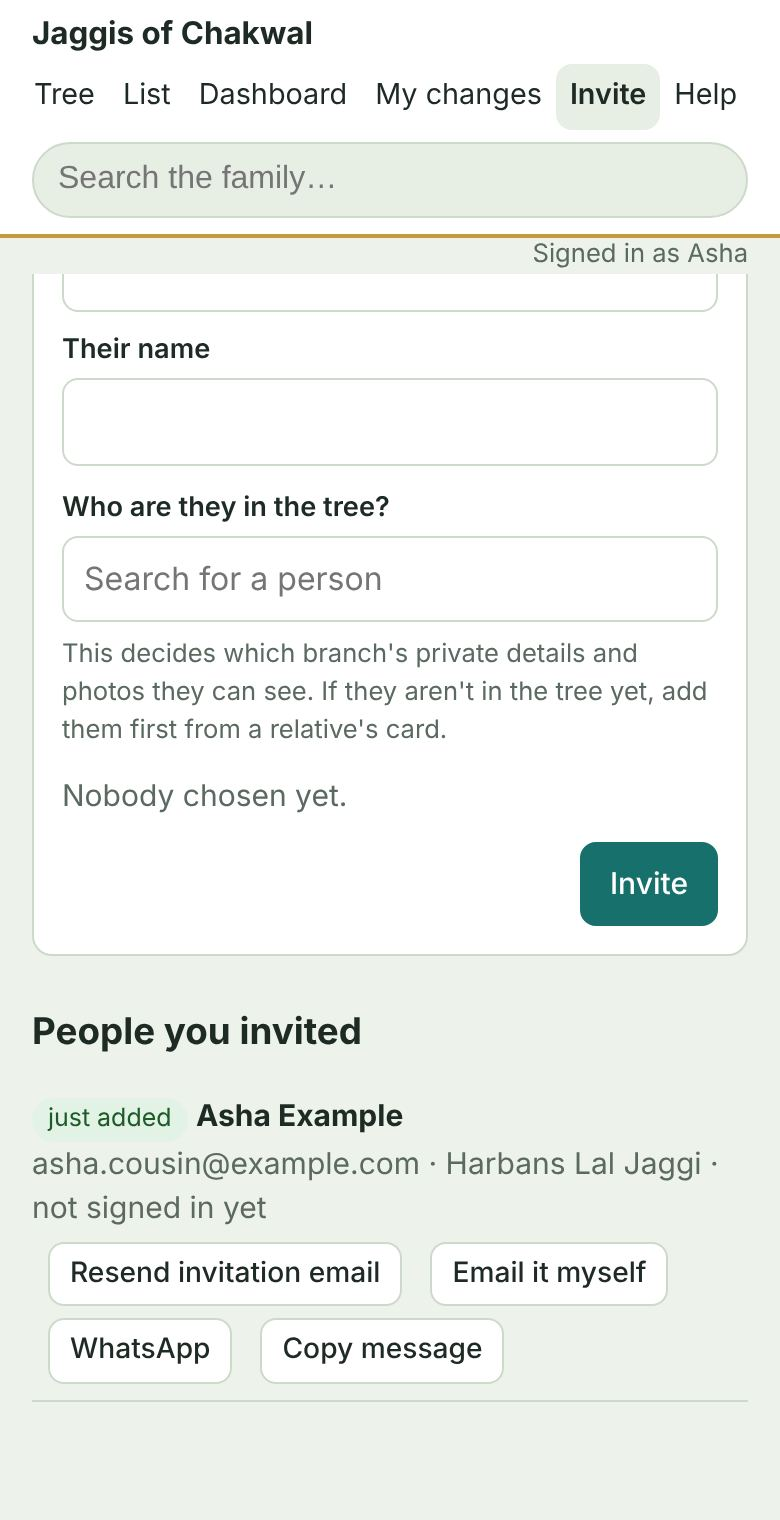
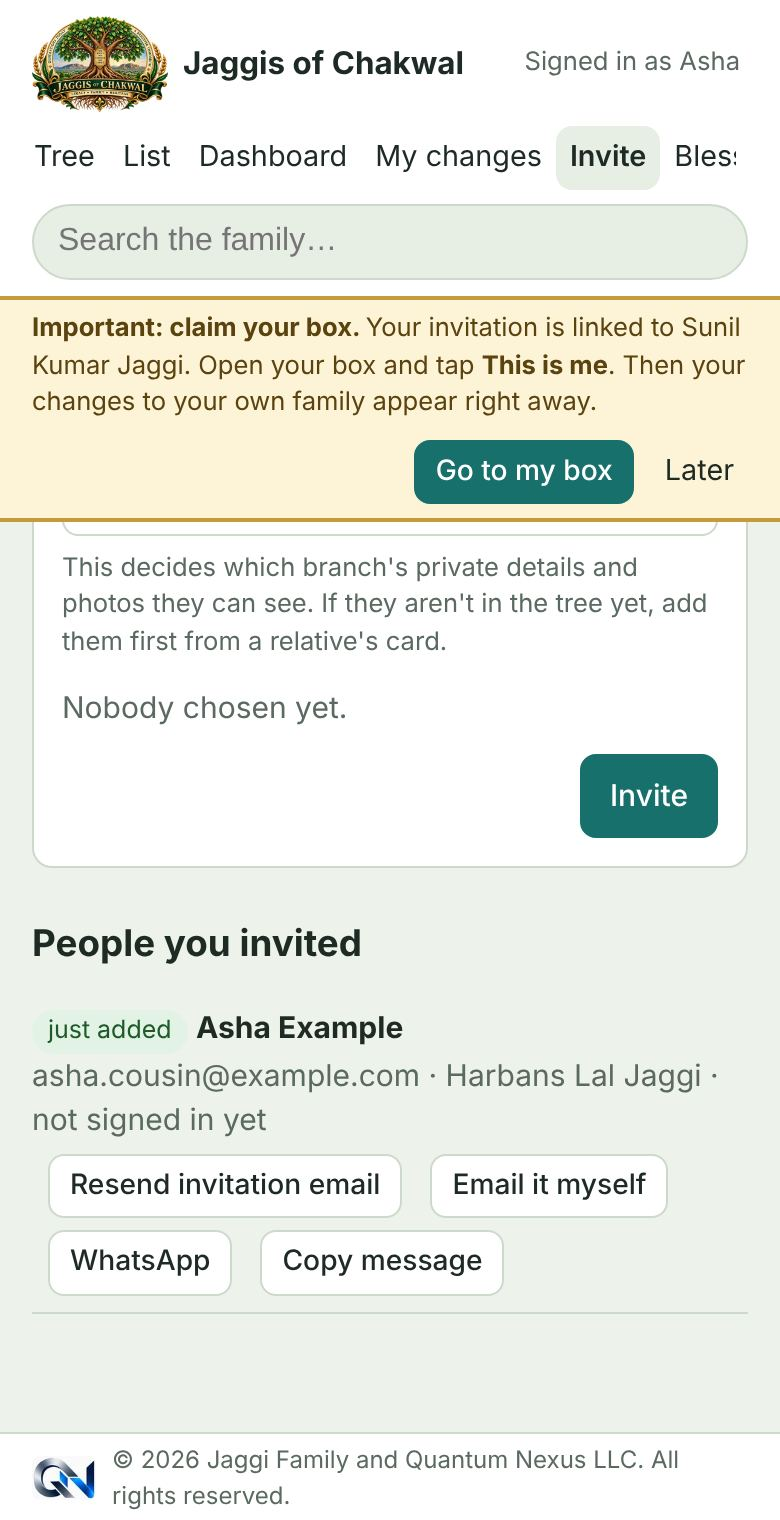
Help: bring the user manual up to date
Adds Blessings and badges and a For the admin section; covers the
Is this you? welcome and the claim-first prompt, live saves for your own
family, required Gender and Living?, the Save your changes? prompt,
light/dark switch, header chip, duplicates and Needs attention links,
and the branded PDF. Retakes the help pictures and adds two new ones.

Claude-Session: https://claude.ai/code/session_01JLtp1YijncZLtdt7iXJDNk

diff --git a/site/help.html b/site/help.html
@@ -30,6 +30,9 @@
     .help .shot figcaption { font-size: 0.88rem; color: var(--muted); margin-top: 6px; line-height: 1.4; }
     .help .shots { display: grid; grid-template-columns: repeat(auto-fit, minmax(220px, 1fr)); gap: 0 16px; }
     .help .shots .shot { margin: 16px auto; }
+    .help-table { width: 100%; border-collapse: collapse; margin: 12px 0; font-size: 0.97rem; }
+    .help-table th, .help-table td { text-align: left; padding: 6px 8px; border-bottom: 1px solid var(--line); vertical-align: top; }
+    .help-table td:last-child, .help-table th:last-child { text-align: right; white-space: nowrap; }
   </style>
 </head>
 <body>
@@ -55,7 +58,7 @@
 
   <main class="help">
     <h1>How to use the family tree</h1>
-    <p>This website is the family tree of the Jaggis of Chakwal, starting from Bakhshi Bhanna Mal Jaggi. Anyone with the link can look at it. Family members who were invited can also add and correct information. <strong>Changes are not visible right away:</strong> the admin checks each one first, and it appears once approved.</p>
+    <p>This website is the family tree of the Jaggis of Chakwal, starting from Bakhshi Bhanna Mal Jaggi. Anyone with the link can look at it. Family members who were invited can also add and correct information, and earn <a href="#blessings">blessings</a> for it. Once you have claimed your own box, changes to your own family appear straight away. Other changes are checked first, by the admin or by the branch admin for that part of the tree, and appear once approved.</p>
     <div class="tip important"><strong>Most important step after you sign in: claim your own box.</strong> Find yourself in the tree and tap <span class="ui">This is me</span>. <a href="#this-is-me">See how</a>.</div>
 
     <div class="toc">
@@ -66,10 +69,12 @@
       <a href="#edit">5. Adding or correcting information</a>
       <a href="#photo">6. Adding a photo</a>
       <a href="#invite">7. Inviting a relative</a>
-      <a href="#dashboard">8. The family dashboard</a>
-      <a href="#library">9. The family Library: videos and articles</a>
-      <a href="#privacy">10. Who can see what</a>
-      <a href="#trouble">11. If something isn't working</a>
+      <a href="#blessings">8. Blessings and badges</a>
+      <a href="#dashboard">9. The family dashboard, PDF and GEDCOM</a>
+      <a href="#library">10. The family Library: videos and articles</a>
+      <a href="#admin">11. For the admin</a>
+      <a href="#privacy">12. Who can see what</a>
+      <a href="#trouble">13. If something isn't working</a>
     </div>
 
     <h2 id="sign-in">1. Signing in</h2>
@@ -85,11 +90,15 @@
 
     <h2 id="this-is-me">2. Claim your box: "This is me" (important)</h2>
     <div class="tip important"><strong>Please do this first, right after you sign in.</strong> Claiming your own box tells the site who you are. It lets your changes to your own family appear straight away, shows how each person is related to you, and makes you the branch admin for your family. Until you do, a yellow reminder stays at the top of the page.</div>
+    <p><strong>Right after you first sign in,</strong> the site usually does this for you. If your invitation names your box, the tree moves to it and a box opens saying <em>Welcome dear member of Jaggi Family!</em> and asking <span class="ui">Is this you?</span>. Tap <span class="ui">Yes, I am …</span> and you are done. If it isn't you, type your name under <span class="ui">Not you? Search for your name</span>, pick yourself and tap <span class="ui">Yes, this is me</span>.</p>
+    <figure class="shot"><img src="img/help/claim-welcome.jpg" width="390" height="760" loading="lazy" alt="After signing in: the tree goes to your box and asks Is this you?"><figcaption>After signing in, the tree goes to your box and asks "Is this you?".</figcaption></figure>
+    <p>If you closed that box, you can claim later:</p>
     <ol>
       <li>Tap <span class="ui">Go to my box</span> on the yellow reminder, or type your name in <span class="ui">Search the family</span> and pick yourself.</li>
       <li>On your card, tap <span class="ui">This is me</span> and confirm.</li>
       <li><strong>Not in the tree yet?</strong> Open your father's or mother's card, tap <span class="ui">Add: Child</span>, add yourself, and once you appear, claim that box.</li>
     </ol>
+    <p><strong>Claim before you change anything.</strong> Until you have claimed a box, tapping any add, edit, photo or link button first opens <span class="ui">First, claim your own box</span>. Claim there and your change carries on. If you are not in the tree yet, tap <span class="ui">My box isn't in the tree yet</span>, then <span class="ui">Continue</span>: you can then add yourself under your father or mother, and you won't be asked again during that visit.</p>
     <p>Once you are signed in, open your own box in the tree and tap <span class="ui">This is me</span>. You become the <strong>branch admin</strong> for your own family below that box. If your invitation was linked to that box, this happens straight away. Otherwise the person who invited you, or the admin, confirms it first. Each account can claim only one box, and each box belongs to only one person.</p>
     <p>As a branch admin:</p>
     <ul>
@@ -130,6 +139,9 @@
       <li><strong>Find someone:</strong> type a name in <span class="ui">Search the family</span>. Different spellings, like Parkash and Prakash, still find them.</li>
       <li><strong>Start the tree from one person:</strong> open their details and tap <span class="ui">Show tree from here</span>. The line at the top shows their ancestors; tap any name there to go back up, or <span class="ui">Whole tree</span>.</li>
       <li><strong>List view:</strong> tap <span class="ui">List</span> at the top for a simple indented list, which is easier to read on a small phone.</li>
+      <li><strong>Light or dark:</strong> tap <span class="ui">☾ Dark</span> or <span class="ui">☀ Light</span> in the menu to switch colours. Your choice is remembered on that phone or computer; until you choose, the site follows your device's own setting.</li>
+      <li><strong>The family logo:</strong> rest the mouse on the logo at the top left, or tap it on a phone, to see it large.</li>
+      <li><strong>You, at the top:</strong> once you are signed in and have claimed your box, your photo, name, <a href="#blessings">blessings</a> and badges sit in the header (on a phone, beside the logo). Tap them to open the Blessings page; tap <span class="ui">?</span> for how blessings work.</li>
     </ul>
     <div class="shots">
       <figure class="shot"><img src="img/help/tree.jpg" width="390" height="760" loading="lazy" alt="The tree. Drag to move around; tap the round button under a card to open a family."><figcaption>The tree. Drag to move around; tap the round button under a card to open a family.</figcaption></figure>
@@ -145,11 +157,14 @@
       <li><span class="ui">Add: Child / Spouse / Parent</span>: add someone who is missing.</li>
       <li><span class="ui">Link to someone already in the tree</span>: connect two people who are both already there.</li>
     </ul>
+    <p><strong>Gender</strong> and <strong>Living?</strong> must be filled in when you add or edit someone: they show <em>Choose...</em> until you pick one. If you really don't know whether someone is living, ask a relative or add an <a href="#dashboard">open question</a>.</p>
+    <p>The <span class="ui">Save</span> (or <span class="ui">Send for approval</span>) button stays at the bottom of the form while you scroll. If you close a form with ✕ after changing something, the site asks <span class="ui">Save your changes?</span> with <span class="ui">Keep editing</span>, <span class="ui">Discard changes</span> or <span class="ui">Save</span>, so nothing is lost by accident. If something can't be saved, the message appears inside the form, so you can fix it and try again.</p>
     <div class="shots">
       <figure class="shot"><img src="img/help/card-actions.jpg" width="390" height="760" loading="lazy" alt="The buttons near the top of a person's card."><figcaption>The buttons near the top of a person's card.</figcaption></figure>
       <figure class="shot"><img src="img/help/suggest-edit.jpg" width="390" height="760" loading="lazy" alt="Suggesting an edit. Nothing changes until the admin approves it."><figcaption>Suggesting an edit. Nothing changes until the admin approves it.</figcaption></figure>
     </div>
     <p>For births and deaths, only the <strong>year</strong> is recorded, never the full date. Years can be approximate, for example <em>c. 1925</em> or <em>1930s</em>. Use <strong>Sources</strong> to say where the information came from (for example "Dadi's memory" or "school records"), and <strong>What's uncertain</strong> for anything you're not sure about.</p>
+    <p><strong>Your own family:</strong> once you have claimed your box, changes to yourself, your husband or wife and your descendants are saved straight away (the button says <span class="ui">Save</span>). Everything else is a suggestion.</p>
     <p>After you tap <span class="ui">Send for approval</span>, your change waits for the admin. <strong>It won't show in the tree until it is approved.</strong> While it waits, you can see it on that person's card in a yellow <strong>Waiting for admin approval</strong> box (only you see this), and under <span class="ui">My changes</span>, where you can also withdraw it. Don't worry about making a mistake; nothing changes until it's approved.</p>
     <div class="shots">
       <figure class="shot"><img src="img/help/pending-card.jpg" width="390" height="760" loading="lazy" alt="Your change, waiting for approval, on the person's card. Only you see it."><figcaption>Your change, waiting for approval, on the person's card. Only you see it.</figcaption></figure>
@@ -181,7 +196,36 @@
     </div>
     <p>The people you invited are listed on the same page, with <span class="ui">Resend invitation email</span> in case it got lost.</p>
 
-    <h2 id="dashboard">8. The family dashboard</h2>
+    <h2 id="blessings">8. Blessings and badges</h2>
+    <p>Every time you add to the family tree, you earn <strong>blessings</strong> ✦. They show how much each of us has given to keeping our family story alive. Blessings count once a change is approved (changes to your own family count straight away). Tap <span class="ui">Blessings</span> in the menu, or your blessings at the top, to see the leaderboard.</p>
+    <table class="help-table">
+      <thead><tr><th>You earn</th><th>Blessings</th></tr></thead>
+      <tbody>
+        <tr><td>Claim your own box ("This is me")</td><td>5</td></tr>
+        <tr><td>Add a person</td><td>5</td></tr>
+        <tr><td>A story about someone (in <span class="ui">Notes / Story</span>)</td><td>5</td></tr>
+        <tr><td>Add a photo</td><td>5</td></tr>
+        <tr><td>Birth or death year, birth or death place, profession, source</td><td>2 each</td></tr>
+        <tr><td>Other details, like names or gender</td><td>1 each</td></tr>
+        <tr><td>Connect two people already in the tree</td><td>3</td></tr>
+        <tr><td>A link for the family Library (once approved)</td><td>3</td></tr>
+        <tr><td>Invite a relative who then signs in</td><td>10</td></tr>
+      </tbody>
+    </table>
+    <p><strong>Our elders count most.</strong> Details about the earliest generations are the rarest, so they are multiplied: <strong>5×</strong> for Generation 1 (Bakhshi Bhanna Mal Jaggi), <strong>4×</strong> for Generation 2, <strong>3×</strong> for Generation 3 and <strong>2×</strong> for Generation 4. After you save, a message tells you how many blessings you earned or will earn.</p>
+    <p><strong>Badges.</strong> Reach a goal and you keep the badge for good:</p>
+    <ul>
+      <li><strong>Root Keeper:</strong> add 10 people to the tree.</li>
+      <li><strong>Storyteller:</strong> add 5 stories.</li>
+      <li><strong>Photo Finder:</strong> add 10 photos.</li>
+      <li><strong>Connector:</strong> 3 relatives you invited sign in.</li>
+      <li><strong>Family Historian:</strong> the most blessings this month. This one moves to whoever leads each month, and the leader gets a short congratulations message.</li>
+    </ul>
+    <p>Two special badges are given by hand: <strong>Founder of the Jaggi Family Tree</strong> for Suraj Parkash Jaggi, who had the idea and made the first two family trees this one grew from, and <strong>Creator of the Jaggi Family Tree</strong> for Sunil Kumar Jaggi, who built the site. They show on their boxes in the tree too.</p>
+    <p>The Blessings page shows the leaderboard for this month or all time, your badges and how close you are to each, the totals for each branch of the family, and a list of your own blessings. The first time you sign in, a short <em>Welcome to Family Blessings</em> message explains all this; to see it again, tap <span class="ui">How it works</span> on the Blessings page, or the <span class="ui">?</span> next to your name at the top.</p>
+    <figure class="shot"><img src="img/help/blessings.jpg" width="390" height="760" loading="lazy" alt="The Blessings page: the leaderboard, your badges and branch totals."><figcaption>The Blessings page: the leaderboard, your badges and branch totals.</figcaption></figure>
+
+    <h2 id="dashboard">9. The family dashboard</h2>
     <p>Tap <span class="ui">Dashboard</span> at the top to see the whole tree at a glance:</p>
     <ul>
       <li><strong>Numbers:</strong> how many people, generations, marriages, branches, photos and sources.</li>
@@ -190,16 +234,21 @@
       <li><strong>Born by period, birthplaces, earliest ancestors and common first names.</strong></li>
       <li><strong>Open questions:</strong> things the family is still trying to find out. Anyone signed in can add one.</li>
     </ul>
+    <p>A few rows in <strong>Needs attention</strong> are worth knowing about:</p>
+    <ul>
+      <li><strong>Not known if living</strong> and <strong>Gender not recorded:</strong> tapping a name here opens that person's edit form straight away, so you can pick the answer and save.</li>
+      <li><strong>Possible duplicates (similar names):</strong> pairs of people whose names are spelled alike, with their parents, so you can tell whether they are really the same person. Only people of the same gender are paired, and placeholder names like <em>Unknown</em> are skipped. If two people really are different, an admin taps <span class="ui">Not a duplicate</span> and the pair is no longer listed. If they are the same person, tell the admin.</li>
+    </ul>
     <div class="shots">
       <figure class="shot"><img src="img/help/dashboard.jpg" width="390" height="760" loading="lazy" alt="The dashboard: the tree in numbers."><figcaption>The dashboard: the tree in numbers.</figcaption></figure>
       <figure class="shot"><img src="img/help/dashboard-attention.jpg" width="390" height="760" loading="lazy" alt="Needs attention: tap a row to see who is missing what."><figcaption>Needs attention: tap a row to see who is missing what.</figcaption></figure>
     </div>
 
     <h3>Printing the tree or saving it as a PDF</h3>
-    <p>Tap <span class="ui">Export</span> at the top, then <span class="ui">Make the PDF</span>. You get a family book: a cover page, the whole tree as an indented chart, and a page for everyone with their years, places and photo. When the print window opens, choose <span class="ui">Save as PDF</span> as the printer. On an iPhone, tap Share, then Print, pinch outwards on the preview, then Share and Save to Files.</p>
+    <p>Tap <span class="ui">Export</span> at the top, then <span class="ui">Make the PDF</span>. You get a family book: a cover page with the Jaggis of Chakwal logo, the whole tree as an indented chart, and a page for everyone with their years, places and photo. Every page has the small family logo at the top and the copyright line at the bottom. When the print window opens, choose <span class="ui">Save as PDF</span> as the printer. On an iPhone, tap Share, then Print, pinch outwards on the preview, then Share and Save to Files.</p>
     <p>The <span class="ui">.ged</span> file on the same page is for genealogy programs and sites such as Ancestry, FamilySearch or MyHeritage. It is not meant to be opened on its own. Both include only what you are allowed to see.</p>
 
-    <h2 id="library">9. The family Library: videos and articles</h2>
+    <h2 id="library">10. The family Library: videos and articles</h2>
     <p>Tap <span class="ui">Library</span> at the top. It keeps the videos, articles and other writing about the Jaggis of Chakwal in one place: Chakwal's history, Partition, Arya High School, family members and more. Anyone can look. YouTube videos play right on the page; tap <span class="ui">Open</span> on anything else to read it on its own site. Use the search box or the topic buttons to find something.</p>
     <h3>Adding a link (family members)</h3>
     <ol>
@@ -222,7 +271,29 @@
       <li><strong>Family only:</strong> under <span class="ui">More options</span>, a link can be made visible to signed-in family members only. Everything else in the Library is public.</li>
     </ul>
 
-    <h2 id="privacy">10. Who can see what</h2>
+    <h2 id="admin">11. For the admin</h2>
+    <p>The admin sees two more items in the menu, <span class="ui">Review</span> and <span class="ui">Members</span>. Branch admins (anyone who has claimed a box) also see <span class="ui">Review</span> for suggestions about their part of the tree.</p>
+    <h3>Review</h3>
+    <ul>
+      <li>Every change waiting for approval, with exactly what would change. Tap <span class="ui">Approve</span> or <span class="ui">Decline</span>, with an optional note to the member. The number on <span class="ui">Review</span> is how many are waiting, including Library links.</li>
+      <li><strong>Recent decisions</strong> lists what was approved lately, with <span class="ui">Undo</span>: an added person is removed again, edited details go back to how they were, and a "This is me" claim is taken back.</li>
+    </ul>
+    <h3>Members</h3>
+    <ul>
+      <li><strong>Branch admins:</strong> who has claimed which box, how many people are in their branch, and who invited them, with <span class="ui">Remove as branch admin</span>.</li>
+      <li><strong>Invite someone:</strong> add an email, a name, who they are in the tree and their role (Member or Admin). The site emails the invitation; WhatsApp and Copy are there too.</li>
+      <li><strong>Send a reminder email:</strong> pick who gets it (<span class="ui">Everyone</span>, <span class="ui">Not signed in yet</span>, <span class="ui">No box claimed</span>, or tick people one by one), write a subject and message, tap <span class="ui">Preview the email</span>, then <span class="ui">Send</span>. Each email starts "Dear &lt;first name&gt;," and ends with a button to open the tree. Replies come to the admin's own email.</li>
+      <li><strong>Invites:</strong> everyone invited, whether they have signed in, and who invited them. <span class="ui">Remove</span> stops that person signing in (they are signed out within the hour); what they already added stays in the tree. Removed people are listed under <strong>Removed</strong> with <span class="ui">Restore</span>, which gives back their invite, login and, if nobody else claimed it meanwhile, their box.</li>
+      <li><strong>Members who have signed in,</strong> with their role and box, which the admin can change.</li>
+    </ul>
+    <h3>Elsewhere</h3>
+    <ul>
+      <li><strong>Blessings page:</strong> <span class="ui">Give or take back blessings</span> adds a bonus (for example for answering an open question) or takes some back, with a reason the member sees. Admins appear on the leaderboard but can't hold Family Historian.</li>
+      <li><strong>Dashboard:</strong> <span class="ui">Not a duplicate</span> under Possible duplicates; <strong>Visits by family members</strong> (signed-in visits, only the admin sees it) and the anonymous count of public visitors.</li>
+      <li><strong>Removing:</strong> only the admin can remove a person from the tree or undo a parent or marriage link.</li>
+    </ul>
+
+    <h2 id="privacy">12. Who can see what</h2>
     <ul>
       <li><strong>Names and who is related to whom</strong> can be seen by anyone with the link.</li>
       <li><strong>Birth years, places, notes and stories, and photos</strong> can be marked <em>Public</em> (anyone) or <em>Branch only</em> (only signed-in family in that branch). Details of living people are <em>Branch only</em> unless you choose otherwise.</li>
@@ -231,11 +302,13 @@
       <li><strong>Search engines such as Google</strong> can find a simple page for each family member who has passed away, with their <em>Public</em> details only (see the <a href="people/">list of ancestors</a>). Living people, and anyone not yet marked as passed away, never get a page and are not named there.</li>
     </ul>
 
-    <h2 id="trouble">11. If something isn't working</h2>
+    <h2 id="trouble">13. If something isn't working</h2>
     <ul>
       <li><strong>"This email hasn't been invited yet":</strong> ask the admin, or the relative who invited you, to invite that exact email address.</li>
       <li><strong>No email arrived:</strong> check Spam, wait a minute, and make sure the address is spelled correctly.</li>
       <li><strong>"Link has expired or was already used":</strong> ask for a new email and use the code from the newest one.</li>
+      <li><strong>A box pops up asking you to claim your box:</strong> see <a href="#this-is-me">Claim your box</a>. If you are not in the tree yet, tap <span class="ui">My box isn't in the tree yet</span>.</li>
+      <li><strong>"Please choose Gender and Living?":</strong> both are required; pick an answer in each and save again.</li>
       <li><strong>Signed in but can't see someone's dates:</strong> those details are marked <em>Branch only</em> for another branch of the family.</li>
     </ul>
     <p>For anything else, contact the admin (Sunil Jaggi).</p>
